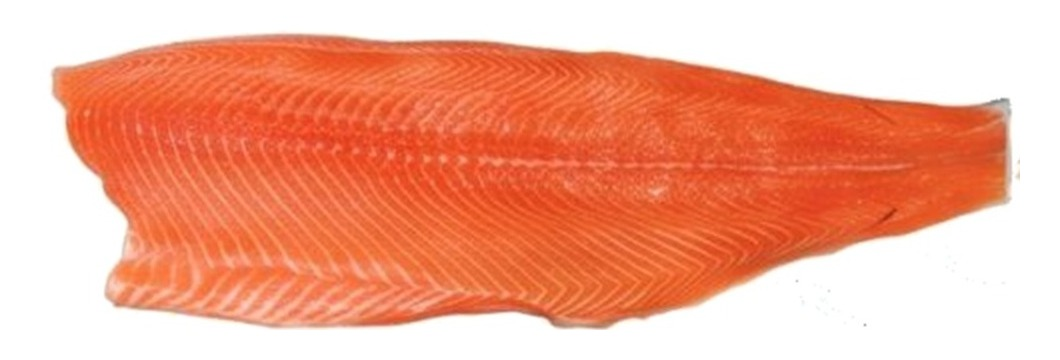
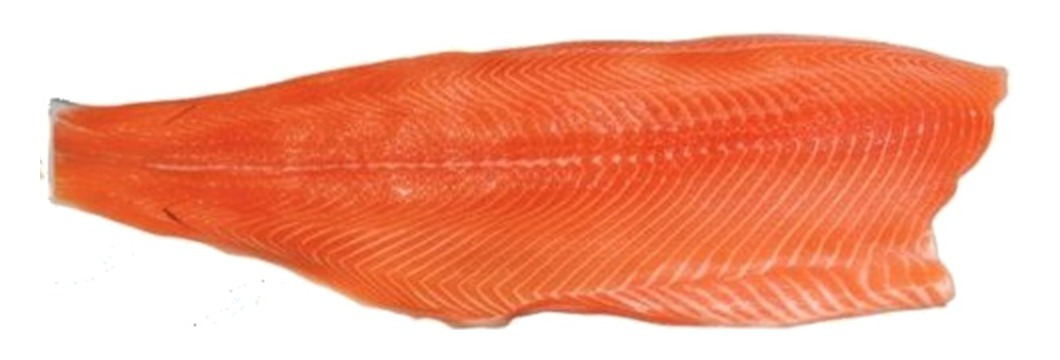
Catálogo: misma orientación en todos los trims; C usa el filete de B y E el de D

diff --git a/cotizar.html b/cotizar.html
@@ -128,9 +128,21 @@ textarea{min-height:110px;resize:vertical}
                 <span class="err-msg">Escribe un teléfono de contacto.</span>
               </div>
             </div>
-            <div class="field">
-              <label for="comuna">Comuna <span class="opt">(opcional)</span></label>
-              <input id="comuna" name="Comuna" autocomplete="address-level2">
+            <div class="row">
+              <div class="field">
+                <label for="region">Región</label>
+                <select id="region" name="Región" autocomplete="address-level1" required>
+                  <option value="">Selecciona tu región</option>
+                </select>
+                <span class="err-msg">Elige tu región.</span>
+              </div>
+              <div class="field">
+                <label for="comuna">Comuna</label>
+                <select id="comuna" name="Comuna" autocomplete="address-level2" required disabled>
+                  <option value="">Primero elige una región</option>
+                </select>
+                <span class="err-msg">Elige tu comuna.</span>
+              </div>
             </div>
             <div class="field">
               <label for="mensaje">Comentarios <span class="opt">(opcional)</span></label>
@@ -183,6 +195,33 @@ textarea{min-height:110px;resize:vertical}
 // Envío por FormSubmit: llega al correo de la empresa sin servidor propio.
 const ENDPOINT = 'https://formsubmit.co/ajax/m.corretajepesca@gmail.com';
 const form = document.getElementById('quoteForm'), statusEl = document.getElementById('status'), btn = document.getElementById('sendBtn');
+
+// Regiones y comunas de Chile (de norte a sur)
+const COMUNAS = {
+  'Arica y Parinacota': ['Arica','Camarones','General Lagos','Putre'],
+  'Tarapacá': ['Alto Hospicio','Camiña','Colchane','Huara','Iquique','Pica','Pozo Almonte'],
+  'Antofagasta': ['Antofagasta','Calama','María Elena','Mejillones','Ollagüe','San Pedro de Atacama','Sierra Gorda','Taltal','Tocopilla'],
+  'Atacama': ['Alto del Carmen','Caldera','Chañaral','Copiapó','Diego de Almagro','Freirina','Huasco','Tierra Amarilla','Vallenar'],
+  'Coquimbo': ['Andacollo','Canela','Combarbalá','Coquimbo','Illapel','La Higuera','La Serena','Los Vilos','Monte Patria','Ovalle','Paihuano','Punitaqui','Río Hurtado','Salamanca','Vicuña'],
+  'Valparaíso': ['Algarrobo','Cabildo','Calera','Calle Larga','Cartagena','Casablanca','Catemu','Concón','El Quisco','El Tabo','Hijuelas','Isla de Pascua','Juan Fernández','La Cruz','La Ligua','Limache','Llaillay','Los Andes','Nogales','Olmué','Panquehue','Papudo','Petorca','Puchuncaví','Putaendo','Quillota','Quilpué','Quintero','Rinconada','San Antonio','San Esteban','San Felipe','Santa María','Santo Domingo','Valparaíso','Villa Alemana','Viña del Mar','Zapallar'],
+  'Metropolitana': ['Alhué','Buin','Calera de Tango','Cerrillos','Cerro Navia','Colina','Conchalí','Curacaví','El Bosque','El Monte','Estación Central','Huechuraba','Independencia','Isla de Maipo','La Cisterna','La Florida','La Granja','La Pintana','La Reina','Lampa','Las Condes','Lo Barnechea','Lo Espejo','Lo Prado','Macul','Maipú','María Pinto','Melipilla','Ñuñoa','Padre Hurtado','Paine','Pedro Aguirre Cerda','Peñaflor','Peñalolén','Pirque','Providencia','Pudahuel','Puente Alto','Quilicura','Quinta Normal','Recoleta','Renca','San Bernardo','San Joaquín','San José de Maipo','San Miguel','San Pedro','San Ramón','Santiago','Talagante','Tiltil','Vitacura'],
+  "O'Higgins": ['Chépica','Chimbarongo','Codegua','Coinco','Coltauco','Doñihue','Graneros','La Estrella','Las Cabras','Litueche','Lolol','Machalí','Malloa','Marchigüe','Mostazal','Nancagua','Navidad','Olivar','Palmilla','Paredones','Peralillo','Peumo','Pichidegua','Pichilemu','Placilla','Pumanque','Quinta de Tilcoco','Rancagua','Rengo','Requínoa','San Fernando','San Vicente','Santa Cruz'],
+  'Maule': ['Cauquenes','Chanco','Colbún','Constitución','Curepto','Curicó','Empedrado','Hualañé','Licantén','Linares','Longaví','Maule','Molina','Parral','Pelarco','Pelluhue','Pencahue','Rauco','Retiro','Río Claro','Romeral','Sagrada Familia','San Clemente','San Javier','San Rafael','Talca','Teno','Vichuquén','Villa Alegre','Yerbas Buenas'],
+  'Ñuble': ['Bulnes','Chillán','Chillán Viejo','Cobquecura','Coelemu','Coihueco','El Carmen','Ninhue','Ñiquén','Pemuco','Pinto','Portezuelo','Quillón','Quirihue','Ránquil','San Carlos','San Fabián','San Ignacio','San Nicolás','Treguaco','Yungay'],
+  'Biobío': ['Alto Biobío','Antuco','Arauco','Cabrero','Cañete','Chiguayante','Concepción','Contulmo','Coronel','Curanilahue','Florida','Hualpén','Hualqui','Laja','Lebu','Los Álamos','Los Ángeles','Lota','Mulchén','Nacimiento','Negrete','Penco','Quilaco','Quilleco','San Pedro de la Paz','San Rosendo','Santa Bárbara','Santa Juana','Talcahuano','Tirúa','Tomé','Tucapel','Yumbel'],
+  'La Araucanía': ['Angol','Carahue','Cholchol','Collipulli','Cunco','Curacautín','Curarrehue','Ercilla','Freire','Galvarino','Gorbea','Lautaro','Loncoche','Lonquimay','Los Sauces','Lumaco','Melipeuco','Nueva Imperial','Padre Las Casas','Perquenco','Pitrufquén','Pucón','Purén','Renaico','Saavedra','Temuco','Teodoro Schmidt','Toltén','Traiguén','Victoria','Vilcún','Villarrica'],
+  'Los Ríos': ['Corral','Futrono','La Unión','Lago Ranco','Lanco','Los Lagos','Máfil','Mariquina','Paillaco','Panguipulli','Río Bueno','Valdivia'],
+  'Los Lagos': ['Ancud','Calbuco','Castro','Chaitén','Chonchi','Cochamó','Curaco de Vélez','Dalcahue','Fresia','Frutillar','Futaleufú','Hualaihué','Llanquihue','Los Muermos','Maullín','Osorno','Palena','Puerto Montt','Puerto Octay','Puerto Varas','Puqueldón','Purranque','Puyehue','Queilén','Quellón','Quemchi','Quinchao','Río Negro','San Juan de la Costa','San Pablo'],
+  'Aysén': ['Aysén','Chile Chico','Cisnes','Cochrane','Coyhaique','Guaitecas','Lago Verde',"O'Higgins",'Río Ibáñez','Tortel'],
+  'Magallanes': ['Antártica','Cabo de Hornos','Laguna Blanca','Natales','Porvenir','Primavera','Punta Arenas','Río Verde','San Gregorio','Timaukel','Torres del Paine']
+};
+const regionSel = document.getElementById('region'), comunaSel = document.getElementById('comuna');
+regionSel.append(...Object.keys(COMUNAS).map(r => new Option(r, r)));
+regionSel.addEventListener('change', () => {
+  const list = COMUNAS[regionSel.value] || [];
+  comunaSel.replaceChildren(new Option(list.length ? 'Selecciona tu comuna' : 'Primero elige una región', ''), ...list.map(c => new Option(c, c)));
+  comunaSel.disabled = !list.length;
+});
 
 function validate() {
   let first = null;

diff --git a/catalogo.html b/catalogo.html
@@ -170,12 +170,12 @@ tbody tr:last-child th,tbody tr:last-child td{border-bottom:0}
           <p class="removed">Junto al filete: la aleta dorsal, el trozo de cola y la panza que se le retiraron.</p>
         </article>
         <article class="cut">
-          <figure><img src="img/g-trim-c.jpg?v=3" width="1060" height="360" alt="Filete Trim C sin espinas laterales"></figure>
+          <figure><img src="img/g-trim-c.jpg?v=4" width="1060" height="360" alt="Filete Trim C sin espinas laterales"></figure>
           <div class="tagline"><span class="k">Trim C</span><span class="n">Sin espinas</span></div>
           <div class="level" aria-label="Nivel de limpieza 3 de 5"><i class="on"></i><i class="on"></i><i class="on"></i><i></i><i></i></div>
           <p>Todo lo del Trim B, y además sin espinas laterales (pin bones).</p>
           <p class="keep">Mantiene: restos de aletas y grasa de los bordes, membrana ventral y piel</p>
-          <p class="removed">Las espinas laterales se sacan una a una desde dentro de la carne, por eso por fuera se ve como el Trim B.</p>
+          <p class="removed">Mismo filete que el Trim B: las espinas laterales se sacan una a una desde dentro de la carne, por eso por fuera no cambia.</p>
         </article>
         <article class="cut">
           <figure><img src="img/g-trim-d.jpg?v=3" width="1008" height="388" alt="Filete Trim D completamente recortado"></figure>
@@ -185,11 +185,12 @@ tbody tr:last-child th,tbody tr:last-child td{border-bottom:0}
           <p class="keep">Mantiene: piel</p>
         </article>
         <article class="cut">
-          <figure><img src="img/g-trim-e.jpg?v=2" width="950" height="290" alt="Filete Trim E totalmente limpio y sin piel"></figure>
+          <figure><img src="img/g-trim-e.jpg?v=3" width="1008" height="388" alt="Filete Trim E totalmente limpio y sin piel"></figure>
           <div class="tagline"><span class="k">Trim E</span><span class="n">Sin piel</span></div>
           <div class="level" aria-label="Nivel de limpieza 5 de 5"><i class="on"></i><i class="on"></i><i class="on"></i><i class="on"></i><i class="on"></i></div>
           <p>Todo lo del Trim D, y además sin piel.</p>
           <p class="keep">Listo para porcionar</p>
+          <p class="removed">Mismo corte que el Trim D, con la piel ya retirada por debajo.</p>
         </article>
       </div>
     </div>
